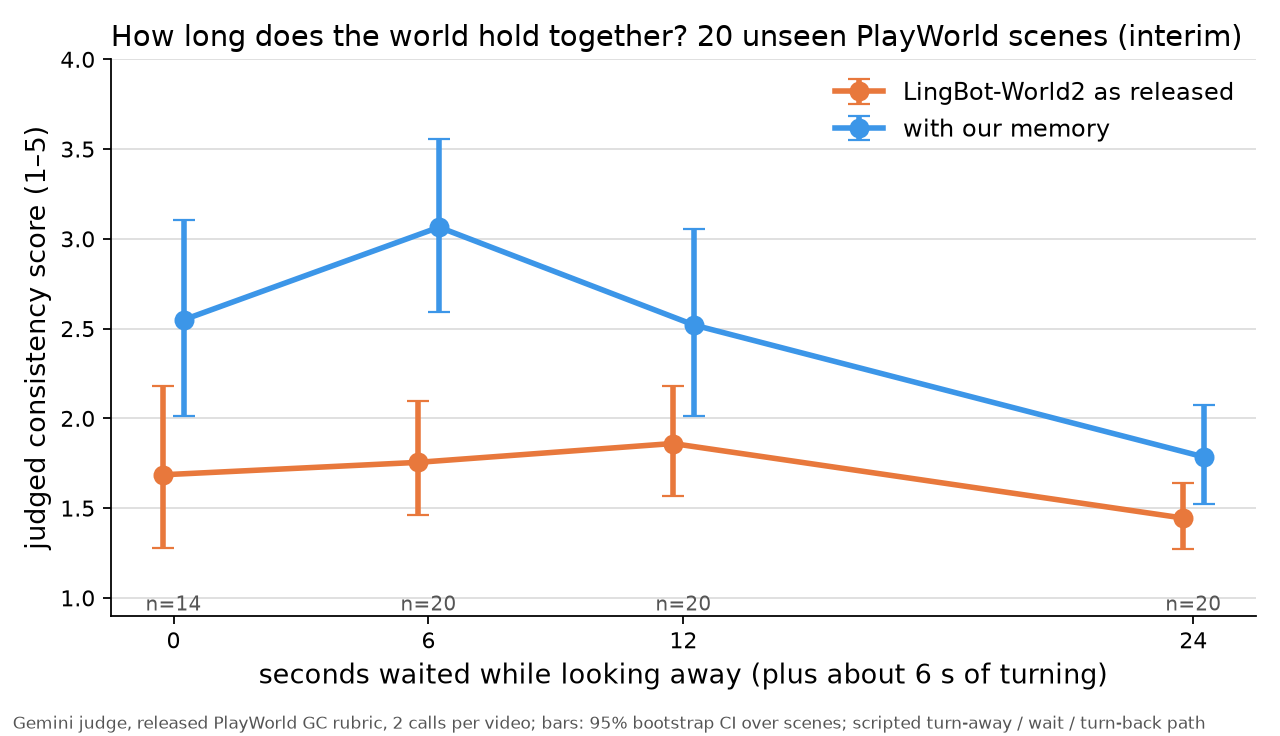
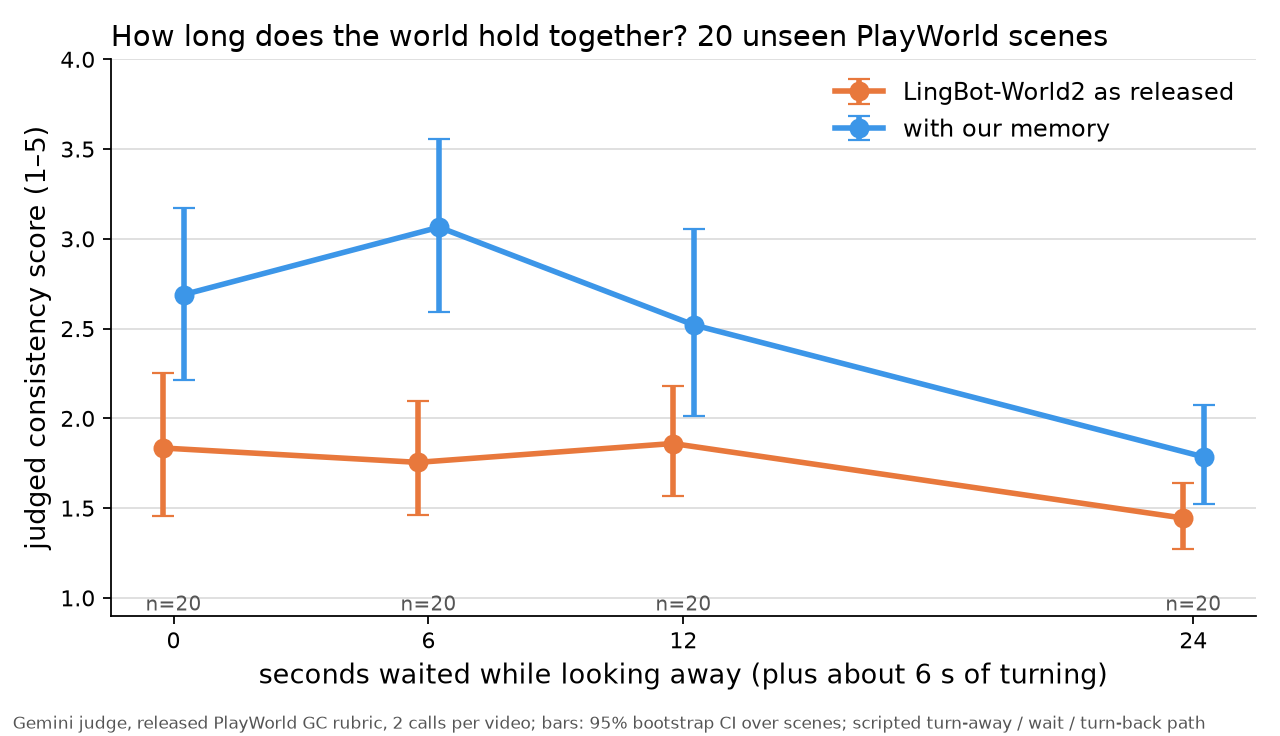
Demo page: final revisit-horizon numbers (160 of 160 episodes), all four absence lengths
Claude-Session: https://claude.ai/code/session_01Di2hm6v8UtyRWudwWiyoMt

diff --git a/scripts/write_demo_page.py b/scripts/write_demo_page.py
@@ -40,7 +40,8 @@ def main():
     others = ""
     if h6 and h24:
         others = (f"; 6 s: {h6['stock'][0]:.2f} → {h6['memory'][0]:.2f} ({interval(h6['delta'])}); "
-                  f"24 s: {h24['stock'][0]:.2f} → {h24['memory'][0]:.2f} ({interval(h24['delta'])})")
+                  f"24 s: {h24['stock'][0]:.2f} → {h24['memory'][0]:.2f} ({interval(h24['delta'])}); "
+                  f"pooled {interval(pooled['delta'])}")
     rows = []
     for horizon, row in sorted(horizons.items()):
         rows.append(f"| {horizon} s | {row['n']} | {row['stock'][0]:.2f} | {row['memory'][0]:.2f} | {interval(row['delta'])} | "
@@ -187,7 +188,7 @@ same flags at commit `edb2b83` on Lambda H100s; pixels differ between GPU models
 - **A clear question with a baseline first.** We reproduced the published LingBot-World2 score on all 171 PlayWorld tasks before
   claiming anything, twice, on different hardware: 1.85 and 1.81 against 1.82 (`reproduction/full-run/table.md`, `reproduction/final-run/table.md`).
 - **Frozen before generation.** Every comparison has a config committed before its first video: `reproduction/full-run-config.json`,
-  `reproduction/final-run-config.json`, `docs/demo/sources/revisit-horizon-config.json`, `reproduction/memory-v2-config.json`,
+  `reproduction/final-run-config.json`, `reproduction/revisit-horizon-config.json`, `reproduction/memory-v2-config.json`,
   and a success criterion written before any full score existed (`reproduction/pass-criterion.md`).
 - **Paired designs with intervals.** Same task, same seed, same GPU model for both arms; bootstrap 95% intervals over tasks;
   development scenes excluded from held-out results; wins, ties and losses reported next to every mean.
@@ -256,7 +257,7 @@ only 8-bit floating point held up on both test scenes, at 2×.
   (`reproduction/lambda-log.md`), the note that coordinated three agent sessions (`reproduction/COORDINATION.md`), and what
   each experiment found, positive or negative (`reproduction/INTEGRATION.md`).
 - **Code runs.** The flags are default-off options of one rollout script; the test suite passes; the command block above
-  reproduces a side-by-side. Memory v2 and the storage variants live on branches `memory-v2` and `storage-ablation`.
+  reproduces a side-by-side. Memory v2 (`--memory-v2 recompute`) and the storage variants are wired into the same script.
 - **Failures are reported.** See the next section, [GALLERY.md](GALLERY.md) for losses shown next to wins, and
   [docs/METHOD.md](METHOD.md) for the methods that did not work.
 

diff --git a/docs/DEMO.md b/docs/DEMO.md
@@ -13,7 +13,7 @@ the model's internal state on demand, which takes **about 200× less memory** th
 
 | | Headline result | Status |
 |---|---|---|
-| 1 | **After 12 s looking away, on 20 unseen PlayWorld scenes: judged consistency 1.86 → 2.52, paired +0.66 [+0.19, +1.12], 14 wins / 2 ties / 4 losses**; 6 s: 1.76 → 3.07 (+1.31 [+0.74, +1.89]); 24 s: 1.45 → 1.78 (+0.34 [+0.05, +0.64]) | pre-registered (interim) |
+| 1 | **After 12 s looking away, on 20 unseen PlayWorld scenes: judged consistency 1.86 → 2.52, paired +0.66 [+0.19, +1.12], 14 wins / 2 ties / 4 losses**; 6 s: 1.76 → 3.07 (+1.31 [+0.74, +1.89]); 24 s: 1.45 → 1.78 (+0.34 [+0.05, +0.64]); pooled +0.77 [+0.51, +1.03] | pre-registered |
 | 2 | **6.2 MB per remembered frame instead of 1,235 MB (about 200×) at about the same recall** (0.77 against 0.78; stock 0.35) | one scene, one seed, one GPU type |
 | 3 | **Published baseline reproduced twice with the open checkpoint: 1.85 and 1.81 overall against the published 1.82** | all 171 PlayWorld tasks |
 | 4 | **Best subset of PlayWorld's own tasks: out-of-sight evolution with our text director, 1.32 → 1.53, a trend of +0.20 [−0.12, +0.58]** | post-hoc choice of subset and metric |
@@ -36,14 +36,14 @@ PlayWorld's released consistency rubric. These are PlayWorld scenes with our own
 
 | seconds away | scenes | as released | with our memory | paired difference [95% CI] | wins/ties/losses |
 |---:|---:|---:|---:|---|---|
-| 0 s | 14 | 1.69 | 2.55 | +0.86 [+0.33, +1.44] | 10/1/3 |
+| 0 s | 20 | 1.84 | 2.69 | +0.85 [+0.29, +1.45] | 13/1/6 |
 | 6 s | 20 | 1.76 | 3.07 | +1.31 [+0.74, +1.89] | 17/1/2 |
 | 12 s | 20 | 1.86 | 2.52 | +0.66 [+0.19, +1.12] | 14/2/4 |
 | 24 s | 20 | 1.45 | 1.78 | +0.34 [+0.05, +0.64] | 12/3/5 |
 
-Pooled over the 6 s, 12 s and 24 s absences, scenes as units: +0.77 [+0.51, +1.03] (n = 20) (interim). The turn
+Pooled over the 6 s, 12 s and 24 s absences, scenes as units: +0.77 [+0.51, +1.03] (n = 20). The turn
 away and back adds about 6 s to each absence, so even the 0 s row is beyond the model's 4.5 s window. Source: `docs/demo/horizon-summary.json`
-(150 of 160 episodes scored).
+(160 of 160 episodes scored).
 
 ### Selected examples
 
@@ -131,7 +131,7 @@ same flags at commit `edb2b83` on Lambda H100s; pixels differ between GPU models
 - **A clear question with a baseline first.** We reproduced the published LingBot-World2 score on all 171 PlayWorld tasks before
   claiming anything, twice, on different hardware: 1.85 and 1.81 against 1.82 (`reproduction/full-run/table.md`, `reproduction/final-run/table.md`).
 - **Frozen before generation.** Every comparison has a config committed before its first video: `reproduction/full-run-config.json`,
-  `reproduction/final-run-config.json`, `docs/demo/sources/revisit-horizon-config.json`, `reproduction/memory-v2-config.json`,
+  `reproduction/final-run-config.json`, `reproduction/revisit-horizon-config.json`, `reproduction/memory-v2-config.json`,
   and a success criterion written before any full score existed (`reproduction/pass-criterion.md`).
 - **Paired designs with intervals.** Same task, same seed, same GPU model for both arms; bootstrap 95% intervals over tasks;
   development scenes excluded from held-out results; wins, ties and losses reported next to every mean.
@@ -200,7 +200,7 @@ only 8-bit floating point held up on both test scenes, at 2×.
   (`reproduction/lambda-log.md`), the note that coordinated three agent sessions (`reproduction/COORDINATION.md`), and what
   each experiment found, positive or negative (`reproduction/INTEGRATION.md`).
 - **Code runs.** The flags are default-off options of one rollout script; the test suite passes; the command block above
-  reproduces a side-by-side. Memory v2 and the storage variants live on branches `memory-v2` and `storage-ablation`.
+  reproduces a side-by-side. Memory v2 (`--memory-v2 recompute`) and the storage variants are wired into the same script.
 - **Failures are reported.** See the next section, [GALLERY.md](GALLERY.md) for losses shown next to wins, and
   [docs/METHOD.md](METHOD.md) for the methods that did not work.
 

diff --git a/docs/demo/APPENDIX.md b/docs/demo/APPENDIX.md
@@ -1,6 +1,6 @@
 # Demo appendix: the full rule-based set
 
-Rule: the largest paired judged differences at 12 s or 24 s away, one entry per scene, plus the most negative ones (interim). Every pair is in `horizon-summary.json`. Observations were written after viewing each strip.
+Rule: the largest paired judged differences at 12 s or 24 s away, one entry per scene, plus the most negative ones. Every pair is in `horizon-summary.json`. Observations were written after viewing each strip.
 
 | scene | away | as released | with memory | difference | judge calls (released / memory) | final-frame similarity |
 |---|---:|---:|---:|---:|---|---|
